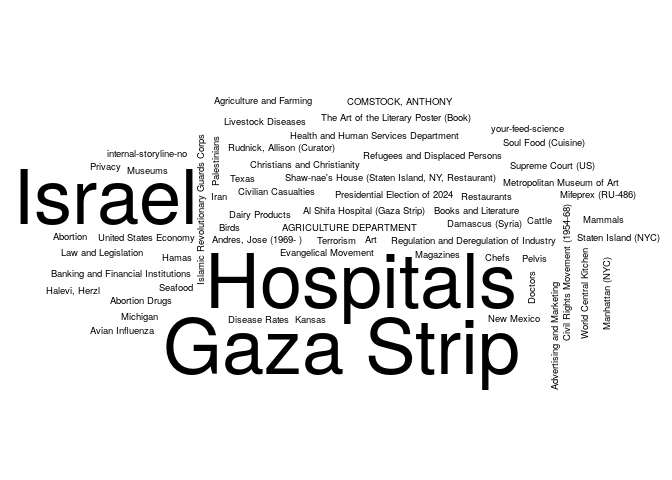
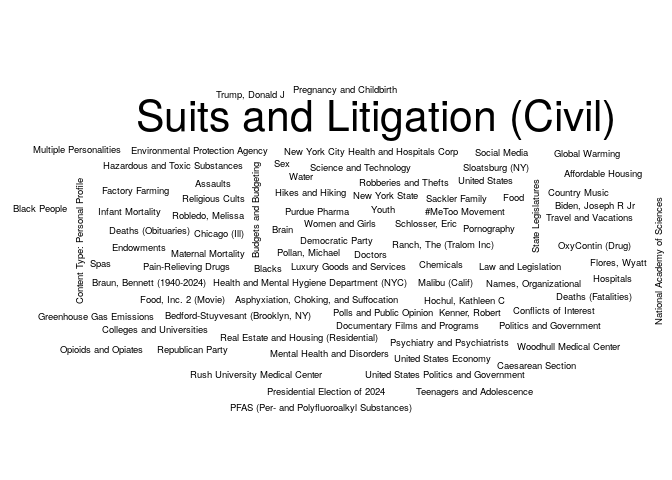
Updating the NYT report

Changed region(s): [[0.0, 0.1562, 1.0, 0.875]]

diff --git a/03-nytimes/README.md b/03-nytimes/README.md
@@ -5,7 +5,7 @@ The following is an example of how to use the [NYTimes
 API](https://developer.nytimes.com/) to get a list of articles related
 to a particular term. Here we are searching articles that include the
 term `"health"`, and that were published up to seven days ago since
-2024-04-08.
+2024-04-15.
 
 ``` r
 # Preparing a function to use the GET method with the NYTimes API
@@ -83,25 +83,25 @@ colnames(tab) <- c("Keyword", "# Articles")
 knitr::kable(tab, row.names = FALSE)
 ```
 
-| Keyword                               | \# Articles |
-|:--------------------------------------|------------:|
-| Defense and Military Forces           |          20 |
-| Gaza Strip                            |          20 |
-| Hospitals                             |          20 |
-| Israel                                |          20 |
-| Israel-Gaza War (2023- )              |          20 |
-| United States Politics and Government |          20 |
-| Abortion                              |          10 |
-| Abortion Drugs                        |          10 |
-| Advertising and Marketing             |          10 |
-| Agriculture and Farming               |          10 |
-| AGRICULTURE DEPARTMENT                |          10 |
-| Al Shifa Hospital (Gaza Strip)        |          10 |
-| Andres, Jose (1969- )                 |          10 |
-| Art                                   |          10 |
-| Avian Influenza                       |          10 |
-| Banking and Financial Institutions    |          10 |
-| Birds                                 |          10 |
-| Books and Literature                  |          10 |
-| Cattle                                |          10 |
-| Chefs                                 |          10 |
+| Keyword                                 | \# Articles |
+|:----------------------------------------|------------:|
+| Regulation and Deregulation of Industry |          15 |
+| Suits and Litigation (Civil)            |          10 |
+| \#MeToo Movement                        |           5 |
+| Affordable Housing                      |           5 |
+| Asphyxiation, Choking, and Suffocation  |           5 |
+| Assaults                                |           5 |
+| Bedford-Stuyvesant (Brooklyn, NY)       |           5 |
+| Biden, Joseph R Jr                      |           5 |
+| Black People                            |           5 |
+| Blacks                                  |           5 |
+| Brain                                   |           5 |
+| Braun, Bennett (1940-2024)              |           5 |
+| Budgets and Budgeting                   |           5 |
+| Caesarean Section                       |           5 |
+| Chemicals                               |           5 |
+| Chicago (Ill)                           |           5 |
+| Colleges and Universities               |           5 |
+| Conflicts of Interest                   |           5 |
+| Content Type: Personal Profile          |           5 |
+| Country Music                           |           5 |
